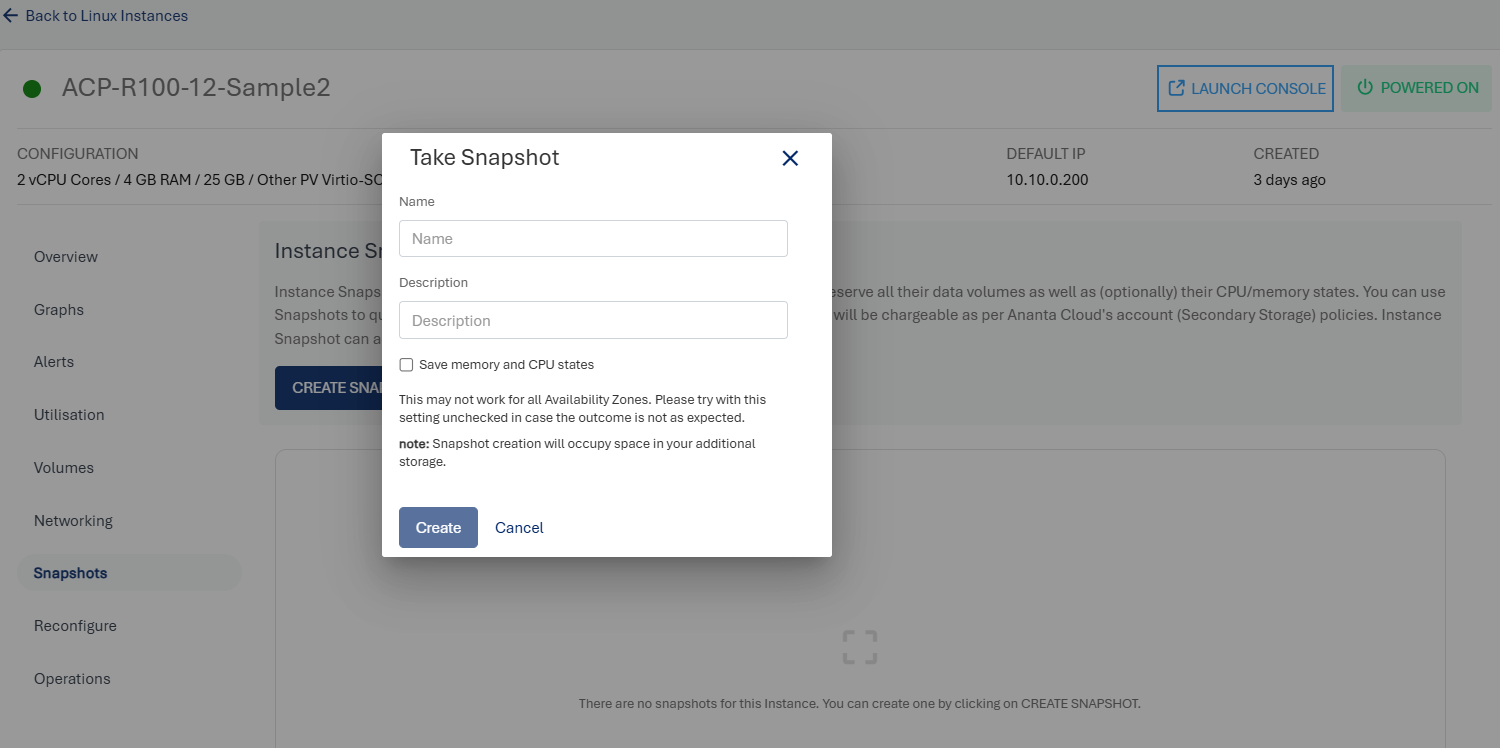
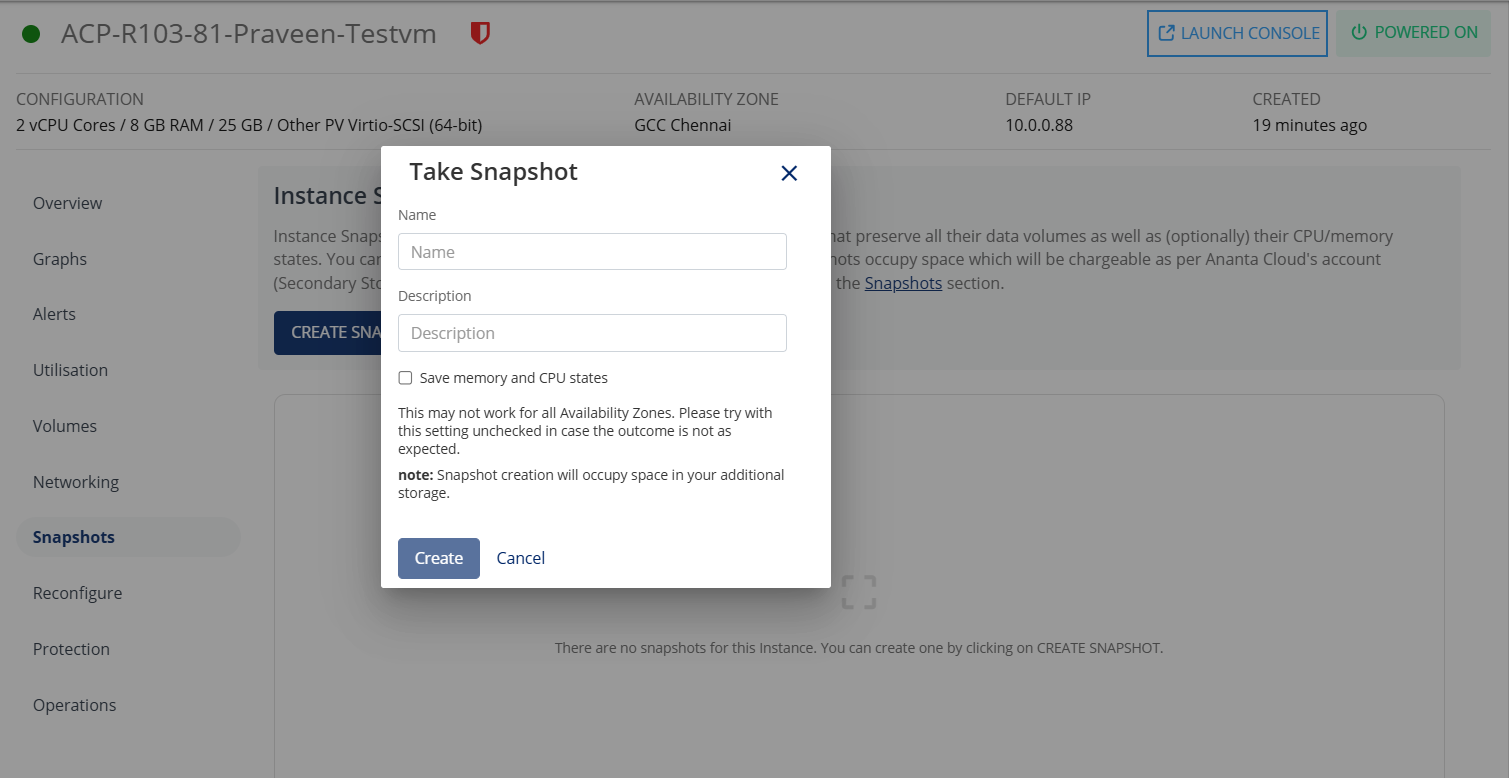
Updates

diff --git a/docs/Compute/LinuxInstances/ConfiguringAlertsonLinuxInstances.md b/docs/Compute/LinuxInstances/ConfiguringAlertsonLinuxInstances.md
@@ -3,7 +3,7 @@ sidebar_position: 5
 ---
 # Configuring Alerts on Linux Instances
 
-From [Operating Linux Instances](AboutLinuxInstances.md), navigate into a Linux Instance and access the **Alerts** tab to view the configured alerts or configure new ones.
+From [Linux Instances Screen](AboutLinuxInstances.md), navigate into a Linux Instance and access the **Alerts** tab to view the configured alerts or configure new ones.
 
 Alerts get triggered whenever a configured condition is met. You can create multiple alerts on an instance. Alerts are sent to recipients that you can define and manage.
 
@@ -28,7 +28,7 @@ To create or add alerts, click the **Create Alert** button. The Create Alert w
 The various fields of the Create Alert screen are as follows:
 
 - **Name** - You can define the name for your alert.
-- **Choose Parameter** - This option will allow you to define what parameter needs to be monitored to trigger the alert email. Ananta Cloud supports CPU, RAM, Disk, 1-min Load Average, 5-min Load Average, 15-min Load Average parameters.
+- **Choose Parameter** - This option allows you to define what parameter needs to be monitored to trigger the alert email. Ananta Cloud supports CPU, RAM, Disk, 1-min Load Average, 5-min Load Average, and 15-min Load Average parameters.
 - **Trigger when** - This set of options lets you define whether to trigger above or below a custom value.
 - **Value** - You can define the trigger value/threshold.
 - **Reading duration** - This option lets you define the breach window, that is, the duration for which the breach must be consistent to trigger the alert email.
@@ -39,16 +39,14 @@ The various fields of the Create Alert screen are as follows:
 
 This section list and display all the email IDs already configured for the alerts. You can delete the existing email IDs and add other email IDs by following these steps:
 
-1. Click on the **Manage Recipients** button.
-2. Click on **+ Add More Recipients**.
-3. Add the email IDs; You can add multiple IDs separated by comma.
-4. Click on the **+** icon.
-5. Click on the **Update** button, and update the recipient's list.
+1. Click the **Manage Recipients** button.
+2. Click on **Add More Recipients**.
+3. Add the email IDs; you can add multiple IDs separated by comma.
+4. Click the **+** icon.
+5. Click the **Update** button, and update the recipient's list.
 
 ![Configuring Alerts on Linux Instances](img/ConfiguringAlerts3.png)
 
 :::note
-All the recipients configured will receive all the setup alerts. If no email ID is configured or added, then no email will be sent for the already configured alerts.
+All configured recipients will receive the setup alerts. If no email ID is added, no emails will be sent for the configured alerts.
 :::
-
-

diff --git a/docs/Compute/WindowsInstances/ConfiguringAlertsonWindowsInstances.md b/docs/Compute/WindowsInstances/ConfiguringAlertsonWindowsInstances.md
@@ -3,7 +3,7 @@ sidebar_position: 6
 ---
 # Configuring Alerts on Windows Instances
 
-To view the configured alerts or configure new ones, navigate to [Operating Windows Instances](AboutWindowsInstances), select a Windows Instance and access the **Alerts** tab.
+To view the configured alerts or configure new ones, navigate to [Windows Instances Screen](AboutWindowsInstances), select a Windows Instance and access the **Alerts** tab.
 
 Alerts get triggered whenever a configured condition is met. You can create multiple alerts on an instance. Alerts are sent to recipients that you can define and manage.
 
@@ -17,7 +17,7 @@ The Alerts tab can be accessed from the instance details. It will list all the a
 
 # Adding an Alert
 
-Subscribers can create or add alerts simply by clicking on the **Add Alert** button. The following screen will open up, and the subscriber needs to describe the details of the alert.
+Subscribers can create or add alerts simply by clicking on the **CREATE ALERT** button. The following screen will open up, and the subscriber needs to describe the details of the alert.
 ![Create Alert Window](img/WindowsInstance1.png)
 
 The various fields of the add alert page are described below:
@@ -27,18 +27,18 @@ The various fields of the add alert page are described below:
 - **Value** - You can define the Value. 
 - **Reading duration** - This option lets you define the breach window, i.e., the duration for which the breach has to be consistent to trigger the alert email.
 - **Send email to** - Email IDs can be added here, or also you can add them by using the configure recipients. 
-- 1-min Load Average - How many processes were active, executed, or awaiting execution at the last minute.
-- 5-min Load Average - How many processes were active, executed, or awaiting execution in the last five minutes.
-- 15-min Load Average - How many processes were active, executed, or awaiting execution in the last fifteen minutes.
+- **1-min Load Average** - How many processes were active, executed, or awaiting execution at the last minute.
+- **5-min Load Average** - How many processes were active, executed, or awaiting execution in the last five minutes.
+- **15-min Load Average** - How many processes were active, executed, or awaiting execution in the last fifteen minutes.
 
 # Configuring Recipients
 
 This will list and display all the email IDs already configured for the alerts. You can delete the existing ids and add other email ids by following these steps:
-1. Click on the **Configure Recipients** button.
+1. Click the **Configure Recipients** button.
 2. Click on **+ Add More Recipients**.
 3. Add the email ids; multiple ids can be added and separated by (Comma).
-4. Click on the **+** icon.
-5. Then click on the **Update** button, and update the recipient's list.![Configuring Alerts on Windows Instances](img/ConfiguringAlerts3.png)
+4. Click the **+** icon.
+5. Then click the **Update** button, and update the recipient's list.![Configuring Alerts on Windows Instances](img/ConfiguringAlerts3.png)
 
 :::note
 All configured recipients will receive all the set-up alerts. If no email ID is configured or added, then no email will be sent for the already configured alerts.

diff --git a/docs/Compute/Kubernetes/CreatingaKubernetesCluster.md b/docs/Compute/Kubernetes/CreatingaKubernetesCluster.md
@@ -6,11 +6,11 @@ sidebar_position: 2
 To create a Kubernetes cluster on an advanced VPC AZ, follow these steps:
 1. Navigate to **Compute > Kubernetes**.
 	![New Kubernetes Cluster](img/KubernetesCluster1.png)
-2. Click on the **NEW KUBERNETES CLUSTER** from the top right.
+2. Click the **NEW KUBERNETES CLUSTER** button.
 3. Choose an Availability Zone, which is the geographical region where your Kubernetes cluster will be deployed. Kubernetes Clusters can be created only in Availability Zones that support VPC Networking.   ![Availability Zone](img/KubernetesCluster2.png)
-4. Choose a cluster pack from any of the available VPC Network Collections to set up the Kubernetes Cluster.
-5. Public IP will be selected by default.
-6. Choose a compute pack from the available compute collections.   ![Compute Pack](img/ComputePack.png)
+4. Choose a **Cluster Pack** from any of the available VPC Network Collections to set up the Kubernetes Cluster.
+5. **Public IP** will be selected by default.
+6. Choose a **Compute Pack** from the available compute collections.   ![Compute Pack](img/ComputePack.png)
 7. You need to define the various cluster options listed below:
     1. You can enable the high availability HA for the cluster.
     2. Specify the cluster size, i.e., the no. of worker nodes. 
@@ -18,12 +18,12 @@ To create a Kubernetes cluster on an advanced VPC AZ, follow these steps:
     4. Choose Kubernetes version (To learn how to access the dashboard from version 1.24 onwards, refer to [Accessing the Dashboard](Accessingthekubernetesdashboard.md)).
 	![Cluster Options](img/ClusterOptions.png)
 9. Verify the Estimated Cost of your Kubernetes Cluster based on the specifications you have chosen from the Summary and Estimated Costs Section (Here, both the Hourly and Monthly Prices summary will be displayed)
-10. Click on the check box after going through the policies your cloud service provider mentioned.
-11. Click on the BUY HOURLY or BUY MONTHLY button and Click on the **CONFIRM** to create the Kubernetes Cluster.
+10. Select the **I have read and agreed to the End User License Agreement and Privacy Policy** option.
+11. Click the **BUY HOURLY** or **BUY MONTHLY** button and click **CONFIRM** to create the Kubernetes Cluster.
     ![Summary](img/Summary.png)
 	:::note
 	This might take up to 5-8 minutes. You may use the Cloud Console during this time, but it is advised that you do not refresh the browser window.
 	:::
-Once ready, you’ll be notified of this purchase on your email address on record. The newly created Kubernetes cluster can be accessed from **Compute >** **Kubernetes** on the main navigation panel.
+Once ready, you get the notification of this purchase on your email address on record. The newly created Kubernetes cluster can be accessed from **Compute >** **Kubernetes** on the main navigation panel.
 
 

diff --git a/docs/Compute/Kubernetes/ViewingKubernetesClusterDetails.md b/docs/Compute/Kubernetes/ViewingKubernetesClusterDetails.md
@@ -7,14 +7,14 @@ Ananta Cloud Console offers a detailed view of Kubernetes clusters on the UI. An
 
 To view cluster details on the UI, follow these steps:
 
-1. Navigate to **Compute > Kubernetes**
-2. All the Kubernetes clusters for your account will be listed here with the following details.
+1. Navigate to **Compute > Kubernetes**.
+2. All the Kubernetes clusters for your account will be listed here with the following details:
     1. Kubernetes Cluster Name (Along with the configuration details)
     2. Public IP address
     3. Autoscaling Enabled/Disabled
     4. Created ![ View Kubernetes Cluster ](img/KubernetesCluster1.png)
 
-To  view a list of sections and the various actions you can perform inside the particular section, click the **Kubernetes Cluster** name. Below the cluster name is an informational view where you can find the below details.
+To  view a list of sections and the various actions you can perform inside the particular section, click the **Kubernetes Cluster** name. Below the cluster name is an informational view where you can find the below details:
 - Configuration
 - Availability Zone
 - Cluster Pack
@@ -26,7 +26,7 @@ A quick option is available in the top right corner, i.e., to  **POWER OFF/ON*
 
 At this stage, the following details can be accessed for the cluster:
 1. **Configuration and Availability**
-    1. The cluster’s status, **RUNNING**, is displayed in Green, whereas **STOPPED** is displayed in greyed out.
+    1. The cluster’s status, **RUNNING**, is displayed in <span class="green">**Green**</span>, whereas **STOPPED** is displayed in <span style="color:grey">grey</span>.
     2. Information about the VPC networking zone.
 2. **Nodes Information**- This displays the basic information about the nodes as listed below.
     1. Cluster Size
@@ -37,7 +37,7 @@ At this stage, the following details can be accessed for the cluster:
     2. Virtual router internal name
     3. Created on![Details](img/ViewingKubernetes3.png)
 
-Additionally, other sections will be available on the left which can then be used to view and access various aspects of managing the Kubernetes cluster. These are:
+Additionally, other sections are also available on the left which can then be used to view and access various aspects of managing the Kubernetes cluster. These are:
 - **Access** - To view detailed instructions on how to access the cluster using **kubectl**.
 - **Nodes** - To view the cluster nodes (control and worker) and also scale the cluster.
 - **Dashboard** - To view detailed instructions on how to access the Kubernetes dashboard for the cluster.

diff --git a/docs/Compute/LinuxInstances/ViewingGraphsandUtilizationofLinuxInstances.md b/docs/Compute/LinuxInstances/ViewingGraphsandUtilizationofLinuxInstances.md
@@ -5,7 +5,7 @@ sidebar_position: 4
 
 ## Graphs (Real-time)
 
-To view the available graphs and monitor the instance in real time, navigate to a Linux instance from [Operating Linux Instances](AboutLinuxInstances.md) and access the **Graphs** tab.
+To view the available graphs and monitor the instance in real time, navigate to a Linux instance from [Linux Instances Screen](AboutLinuxInstances.md) and access the **Graphs** tab.
 
 You can use these graphs to understand Instance utilisation patterns and create custom alerts.
 
@@ -20,8 +20,10 @@ The following graphs are available on a 24-hour time-scale graph with a 30-day t
 
 ## Utilisation (Historical)
 
-From [Operating Linux Instances](AboutLinuxInstances.md), navigate into a Linux Instance and access the **Utilisation** tab to view historical usage across supported parameters.  
+From [Linux Instances Screen](AboutLinuxInstances.md), navigate into a Linux Instance, and access the **Utilisation** tab to view historical usage across supported parameters.  
 
-The Utillisation table shows a historical date-wise details of daily maximum, minimum, and average readings for all parameters. The utilisation report is downloadable as a **.csv** file. 
+The Utilisation table shows historical date-wise details of daily maximum, minimum, and average readings for all parameters. The Utilisation report is downloadable as a **.csv** file. 
+
+![Utilisation](img/Utilisation.png)
 
 

diff --git a/docs/Compute/WindowsInstances/ViewingGraphsandUtilisationofWindowsInstances.md b/docs/Compute/WindowsInstances/ViewingGraphsandUtilisationofWindowsInstances.md
@@ -5,7 +5,7 @@ sidebar_position: 5
 
 ## Graphs (Real-time)
 
-To view the available graphs and monitor the instance in real-time, navigate to [Operating Windows Instances](AboutWindowsInstances), select a Windows Instance and access the **Graphs** tab. 
+To view the available graphs, and monitor the instance in real-time, navigate to [Windows Instances Screen](AboutWindowsInstances), select a Windows Instance, and access the **Graphs** tab. 
 
 You can use these graphs to understand Instance utilisation patterns and create custom alerts.
 
@@ -19,8 +19,8 @@ The following graphs are available on a 24-hour time-scale graph with a 30-day t
 
 ## Utilisation (Historical)
 
-to view historical usage across supported parameters, navigate to [Operating Windows Instances](AboutWindowsInstances), select a Windows Instance and access the **Utilisation** tab .
+To view historical usage across supported parameters, navigate to [Windows Instances Screen](AboutWindowsInstances), select a Windows Instance and access the **Utilisation** tab.
 
-The Utillisation table shows a historical date-wise details of daily maximum, minimum, and average readings for all parameters. The utilisation report is downloadable as a _.csv_ file.
+The Utilisation table shows a historical date-wise details of daily maximum, minimum, and average readings for all parameters. The utilisation report is downloadable as a **.csv** file.
 
-
+![Utilisation](img/Utilisation.png)

diff --git a/docs/Compute/LinuxInstances/ReconfiguringLinuxInstances.md b/docs/Compute/LinuxInstances/ReconfiguringLinuxInstances.md
@@ -3,18 +3,18 @@ sidebar_position: 9
 ---
 # Reconfiguring Linux Instances
 
-To access the **Reconfigure** tab and to view available reconfiguration options, navigate to a Linux Instance from [Operating Linux Instances](AboutLinuxInstances.md).
+To access the **Reconfigure** tab and to view available reconfiguration options, navigate to a Linux Instance from [ Linux Instances Screen](AboutLinuxInstances.md).
 
 A Linux Instance on Ananta can be reconfigured in the following ways:
 
-- Billing interval changed between monthly and hourly.
+- The Billing interval changed between monthly and hourly.
 - Choosing and applying a new Compute pack.
 - Choosing and applying a new Root Disk pack.
 
 ![Reconfiguring Linux Instances](img/Reconfiguring1.png)
 
 :::note
-You can only reconfigure with the same billing interval. If you wish just to change the billing interval, please use the **Switch Plan** button. It is recommended to switch the plan first before reconfiguring the instance if you wish to use both the Reconfigure and Switch Plan options. You will be charged according to the new plan you reconfigure, not the previous one.
+You can only reconfigure the Instance with the same billing interval. To change the billing interval, use the Switch Plan button. It is recommended to switch the plan before reconfiguring the Instance if you intend to use both the Reconfigure and Switch Plan options. Charges will be applied based on the reconfigured pack, not the previous pack.
 :::
 
 

diff --git a/docs/Compute/RHELInstances/CreatingRHELInstances.md b/docs/Compute/RHELInstances/CreatingRHELInstances.md
@@ -8,7 +8,7 @@ To create a RHEL instance, follow these steps:
 
 1. Navigate to **Compute > RHEL Instances**.
    ![RHEL Instances](img/RHEL1.png)
-2. Click on the **NEW RHEL INSTANCE**.
+2. Click on **NEW RHEL INSTANCE**.
    ![RHEL Instances](img/RHEL2.png)
 3. Choose an **Availability Zone**, which is the geographical region where your Instance will be deployed. 
 4. Select the **Destination** and then the **Network** from the drop-downs.
@@ -29,12 +29,12 @@ To create a RHEL instance, follow these steps:
     2. You can also remove the applied discount code by clicking the **REMOVE** button. 
     3. Clicking on the **CANCEL** button, this action will be canceled.
     ![Name and choose estimated costs](img/RHELInstance4.png)
-16. Click on the **CONFIRM** to create the RHEL Instance.
+14. Click **CONFIRM** to create the RHEL Instance.
 
 :::note
 It might take up to 5-8 minutes for the instance to create. You may use the Cloud Console during this time, but it is advised that you do not refresh the browser window.
 :::
 
-Once ready, you will be notified of this purchase on your registered email address. To access the newly created RHEL Instances, navigate to **Compute >** **RHEL Instances**.
+Once ready, you get the notification of this purchase on your registered email address. To access the newly created RHEL Instances, navigate to **Compute >** **RHEL Instances**.
 
 

diff --git a/docs/Compute/WindowsInstances/WorkingwithWindowsInstanceSnapshots.md b/docs/Compute/WindowsInstances/WorkingwithWindowsInstanceSnapshots.md
@@ -3,7 +3,7 @@ sidebar_position: 9
 ---
 # Working with Windows Instance Snapshots
 
-To view all the snapshots taken for the instance, navigate to [Operating Windows Instances](AboutWindowsInstances), select a Windows Instance and access the **Snapshots** tab.
+To view all the snapshots taken for the instance, navigate to [Windows Instances Screen](AboutWindowsInstances), select a Windows Instance and access the **Snapshots** tab.
 
 Instance Snapshots allow you to create point-in-time images of Instances that preserve all their data volume as well as (optionally) their CPU/memory states. You can use Snapshots to quickly restore Instances.
 
@@ -11,7 +11,7 @@ The Snapshots section shows all Windows Instances snapshots, which can be used t
 
 ![Snapshots](img/Snapshots1.png)
 
-Snapshot will list down the following details:
+Snapshot displays the following details:
 
 - Snapshot Name
 - Internal Name
@@ -23,4 +23,4 @@ Two quick options are available, one is to revert the Instance from the snapshot
 
 To create a snapshot, click the **CREATE SNAPSHOT** button. It will prompts you for the name  and the description of the snapshot. Click **Create** to generate the snapshot, or click **Cancel** to abort the action.
 
-
+![Take Snapshot](img/TakeSnapshot.png)

diff --git a/docs/Compute/Kubernetes/ScalingKubernetesClusters.md b/docs/Compute/Kubernetes/ScalingKubernetesClusters.md
@@ -7,14 +7,14 @@ Ananta Cloud Console allows for manual and automatic cluster scaling. Clusters s
 ![Scale Cluster](img/ScalingCluster1.png)
 ## Manually Scaling a Cluster
 
-1. Under **Nodes**, click on **SCALE CLUSTER**, and a pop over will appear; keep 'autoscaling' disabled.
+1. Under **Nodes**, click on **SCALE CLUSTER**, and a pop over will appear; keep **autoscaling** disabled.
    ![AutoScaling ](img/ScalingCluster2.png)
 2. Select one of the available compute packs.
 3. Click on **CONFIRM SCALING**.
    ![Confirm Scaling](img/ScalingCluster3.png)
 ## Automatically Scaling a Cluster
 
-1. Under **Nodes**, click on **SCALE CLUSTER**, and a popover will appear, enable 'autoscaling' by flipping the switch.
+1. Under **Nodes**, click on **SCALE CLUSTER**, and a popover will appear, enable **autoscaling** by flipping the switch.
 2. Enter the minimum and maximum number of worker nodes.
 3. Click on **CONFIRM SCALING**.
    ![Enable scaling](img/ScalingCluster4.png)

diff --git a/docs/Compute/LinuxInstances/NetworkingManagementwithLinuxInstances.md b/docs/Compute/LinuxInstances/NetworkingManagementwithLinuxInstances.md
@@ -6,13 +6,11 @@ sidebar_position: 7
 To view the Networks associated with Linux Instance, navigate to a **Linux Instance** and access the **Networking** tab.
 
 The Networking and NICs section list all the networks that a Linux Instance is attached to.
-
 ![Networking Management](img/NetworkingManagement.png)
 
 The following actions are available:
-
 - If the Instance is inside a VPC, you can associate the Instance to multiple tiers within the VPC or share the Instance with other VPC networks in the same Availability Zone by using the **ADD NETWORK** option.
-- Network/tier associations can be removed from this section by using the **_unlink_** action.
+- Network/tier associations can be removed from this section by using the **unlink** action.
 
 :::note
 Advanced networking configurations can be done using the [Virtual Private Clouds](/docs/Networking/VirtualPrivateClouds/AboutVirtualPrivateClouds) service.

diff --git a/docs/Compute/LinuxInstances/ProtectingLinuxInstances.md b/docs/Compute/LinuxInstances/ProtectingLinuxInstances.md
@@ -7,8 +7,8 @@ Enabling protection ensures that all instances are protected while all the threa
 
 To enable instance protection, follow these steps:
 
-1. From [Operating Linux Instances](AboutLinuxInstances.md), navigate into a Linux Instance and access the **Protection** tab.![Protection](img/Protection1.png)
-2. Click on the **Enable Protection** button. The following screen appears where the standard protection service is selected.![Protection](img/Protection2.png)
+1. From [Linux Instances Screen](AboutLinuxInstances.md), navigate into a Linux Instance and access the **Protection** tab.![Protection](img/Protection1.png)
+2. Click the **Enable Protection** button. The following screen appears where the standard protection service is selected.![Protection](img/Protection2.png)
 3. To enable advanced protection features such as antivirus, anti-malware and backup/restore service for the SQL databases, turn on the toggle button. 
 4. Click **Confirm**. The protection gets enabled and the following screen appears:![Protection](img/Protection3.png)
 5. Run the respective script (mentioned under Point No. 1) in command-line to install dependencies.